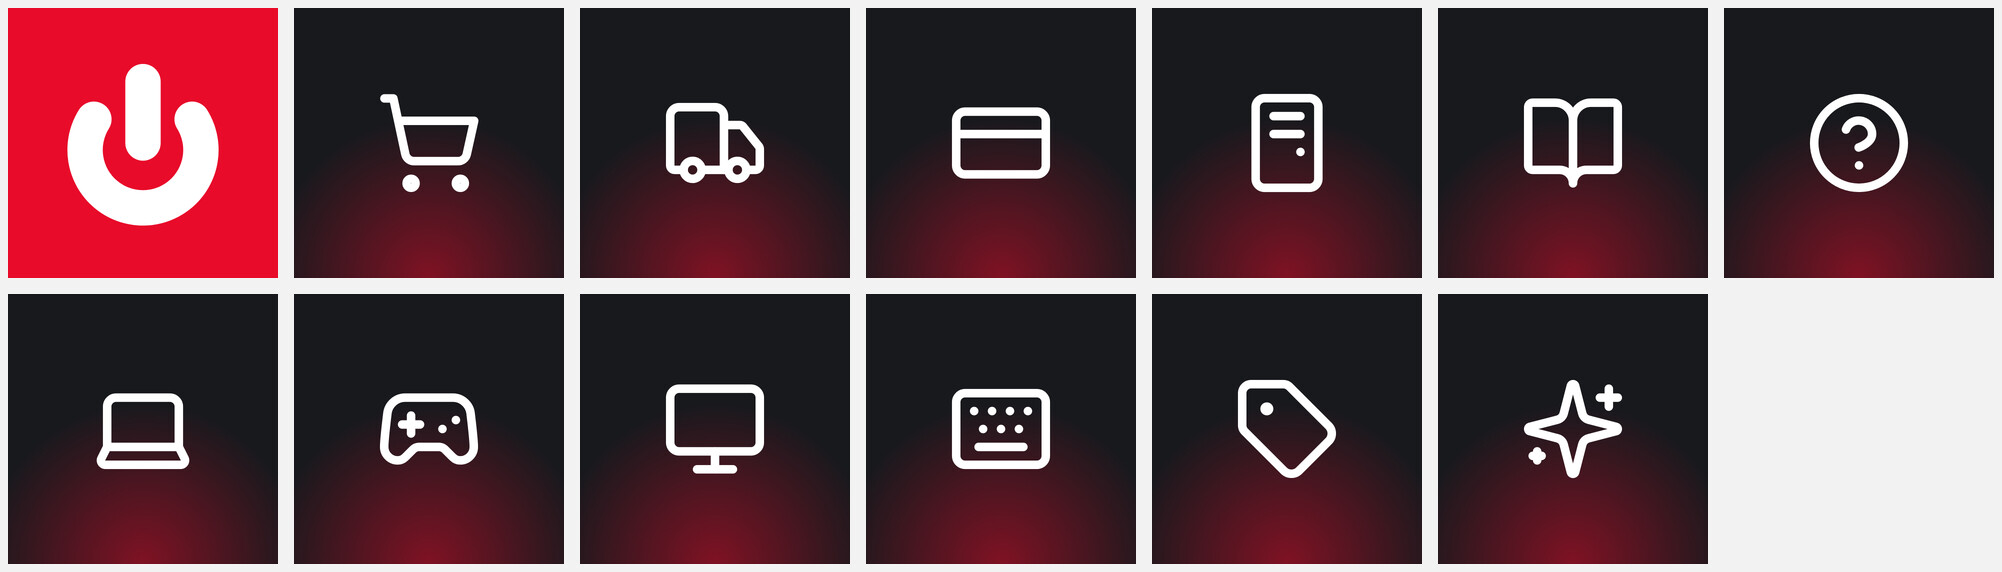
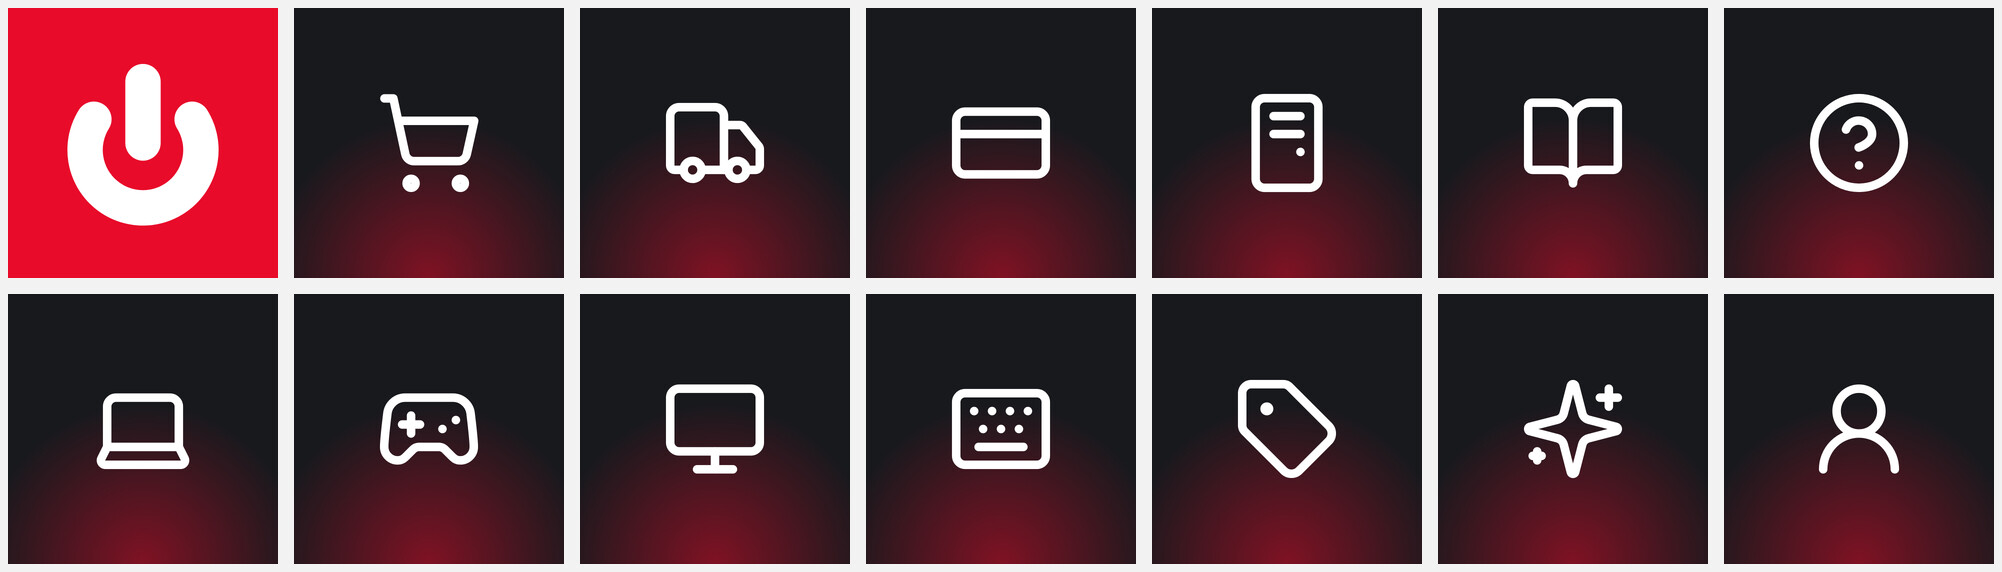
feat: piezas de Instagram sobre la cuenta y los Puntos Teqo
Carrusel de siete láminas con para qué sirve crear una cuenta, publicación de Puntos Teqo,
cuatro historias y la portada de la destacada Tu cuenta. Los beneficios son los que lista la
página Mi cuenta de la tienda; las piezas de puntos no llevan valores porque se cambian desde
el panel.

Claude-Session: https://claude.ai/code/session_01HieMWcEoMMMFAonpZPc1qi

Changed region(s): [[0.8362, 0.5052, 1.0, 1.0]]

diff --git a/marca/instagram/fuente/carruseles.html b/marca/instagram/fuente/carruseles.html
@@ -208,6 +208,81 @@
 </article>
 
 
+<!-- 17 · Para qué sirve crear una cuenta. Los beneficios son los que lista la página Mi cuenta de la tienda. -->
+<article class="pieza post rojo" id="17-tu-cuenta-1" data-carpeta="feed" style="--luz-x:80%;--luz-y:80%">
+  <header class="cabecera"><p class="rotulo">Tu cuenta</p><img class="firma" src="marca/teqo-encendido-blanco.svg" alt="teqo"></header>
+  <div class="contenido" style="--arriba:230px">
+    <h1 class="titular" style="--cuerpo:176px">¿Para qué<br>crear una<br>cuenta?</h1>
+    <p class="bajada" style="font-size:46px">Podés comprar sin cuenta. Con una, sumás todo esto.</p>
+  </div>
+  <i data-icono="cuenta" style="--tam:560px;--grosor:1.1;color:#fff;opacity:.16;position:absolute;right:20px;bottom:120px"></i>
+  <footer class="pie"><span class="contador">1 / 7</span><span class="desliza">Deslizá <i data-icono="flecha"></i></span></footer>
+</article>
+
+<article class="pieza post claro" id="17-tu-cuenta-2" data-carpeta="feed">
+  <header class="cabecera"><p class="rotulo">Tu cuenta</p><img class="firma" src="../../../public/marca/teqo-encendido-fondo-claro.svg" alt="teqo"></header>
+  <div class="contenido" style="--arriba:214px">
+    <p class="numero">01</p>
+    <h2 class="titular" style="--cuerpo:150px;margin-top:34px">Todas tus<br>compras.</h2>
+    <p class="bajada" style="font-size:46px;max-width:900px">Las ves en un solo lugar, también las que hiciste sin cuenta con ese email.</p>
+  </div>
+  <i data-icono="compras" style="--tam:250px;--grosor:1.25;color:var(--rojo);position:absolute;right:76px;bottom:176px"></i>
+  <footer class="pie"><span class="contador">2 / 7</span><span class="desliza">Deslizá <i data-icono="flecha"></i></span></footer>
+</article>
+
+<article class="pieza post claro" id="17-tu-cuenta-3" data-carpeta="feed">
+  <header class="cabecera"><p class="rotulo">Tu cuenta</p><img class="firma" src="../../../public/marca/teqo-encendido-fondo-claro.svg" alt="teqo"></header>
+  <div class="contenido" style="--arriba:214px">
+    <p class="numero">02</p>
+    <h2 class="titular" style="--cuerpo:150px;margin-top:34px">Facturas<br>y envíos.</h2>
+    <p class="bajada" style="font-size:46px;max-width:900px">Bajás tus facturas y seguís cada envío desde Mi cuenta.</p>
+  </div>
+  <i data-icono="factura" style="--tam:250px;--grosor:1.25;color:var(--rojo);position:absolute;right:76px;bottom:176px"></i>
+  <footer class="pie"><span class="contador">3 / 7</span><span class="desliza">Deslizá <i data-icono="flecha"></i></span></footer>
+</article>
+
+<article class="pieza post claro" id="17-tu-cuenta-4" data-carpeta="feed">
+  <header class="cabecera"><p class="rotulo">Tu cuenta</p><img class="firma" src="../../../public/marca/teqo-encendido-fondo-claro.svg" alt="teqo"></header>
+  <div class="contenido" style="--arriba:214px">
+    <p class="numero">03</p>
+    <h2 class="titular" style="--cuerpo:150px;margin-top:34px">Comprás<br>más rápido.</h2>
+    <p class="bajada" style="font-size:46px;max-width:900px">Guardás tus datos y direcciones para la próxima compra.</p>
+  </div>
+  <i data-icono="direccion" style="--tam:250px;--grosor:1.25;color:var(--rojo);position:absolute;right:76px;bottom:176px"></i>
+  <footer class="pie"><span class="contador">4 / 7</span><span class="desliza">Deslizá <i data-icono="flecha"></i></span></footer>
+</article>
+
+<article class="pieza post claro" id="17-tu-cuenta-5" data-carpeta="feed">
+  <header class="cabecera"><p class="rotulo">Tu cuenta</p><img class="firma" src="../../../public/marca/teqo-encendido-fondo-claro.svg" alt="teqo"></header>
+  <div class="contenido" style="--arriba:214px">
+    <p class="numero">04</p>
+    <h2 class="titular" style="--cuerpo:150px;margin-top:34px">Tus cupones.</h2>
+    <p class="bajada" style="font-size:46px;max-width:900px">Los activás en Mi cuenta y los usás al finalizar la compra.</p>
+  </div>
+  <i data-icono="cupon" style="--tam:250px;--grosor:1.25;color:var(--rojo);position:absolute;right:76px;bottom:176px"></i>
+  <footer class="pie"><span class="contador">5 / 7</span><span class="desliza">Deslizá <i data-icono="flecha"></i></span></footer>
+</article>
+
+<article class="pieza post claro" id="17-tu-cuenta-6" data-carpeta="feed">
+  <header class="cabecera"><p class="rotulo">Tu cuenta</p><img class="firma" src="../../../public/marca/teqo-encendido-fondo-claro.svg" alt="teqo"></header>
+  <div class="contenido" style="--arriba:214px">
+    <p class="numero">05</p>
+    <h2 class="titular" style="--cuerpo:150px;margin-top:34px">Puntos Teqo.</h2>
+    <p class="bajada" style="font-size:46px;max-width:900px">Sumás puntos con cada compra y los canjeás por un cupón de descuento.</p>
+  </div>
+  <i data-icono="puntos" style="--tam:250px;--grosor:1.25;color:var(--rojo);position:absolute;right:76px;bottom:176px"></i>
+  <footer class="pie"><span class="contador">6 / 7</span><span class="desliza">Deslizá <i data-icono="flecha"></i></span></footer>
+</article>
+
+<article class="pieza post oscuro" id="17-tu-cuenta-7" data-carpeta="feed" style="--luz-x:74%;--luz-y:80%">
+  <header class="cabecera"><p class="rotulo">Tu cuenta</p><img class="firma" src="../../../public/marca/teqo-encendido-fondo-oscuro.svg" alt="teqo"></header>
+  <div class="contenido" style="--arriba:300px">
+    <h2 class="titular" style="--cuerpo:116px">Entrás con Google<br><em>o con tu email.</em></h2>
+    <p class="bajada" style="font-size:46px">La creás en Mi cuenta. Usamos tu email solo para tus compras y tu cuenta.</p>
+  </div>
+  <footer class="pie"><span class="contador">7 / 7</span><span class="desliza">teqo.com.ar</span></footer>
+</article>
+
 <script src="iconos.js"></script>
 </body>
 </html>

diff --git a/marca/instagram/fuente/historias.html b/marca/instagram/fuente/historias.html
@@ -247,6 +247,47 @@
 </article>
 
 
+<!-- Tu cuenta: para qué sirve crearla. Va a la destacada "Tu cuenta". -->
+<article class="pieza historia rojo" id="tu-cuenta-1-portada" data-carpeta="historias/tu-cuenta" style="--luz-x:80%;--luz-y:80%">
+  <header class="cabecera"><p class="rotulo">Tu cuenta</p><img class="firma" src="marca/teqo-encendido-blanco.svg" alt="teqo"></header>
+  <div class="contenido" style="--arriba:520px">
+    <h1 class="titular" style="--cuerpo:196px">¿Para qué<br>crear una<br>cuenta?</h1>
+    <p class="bajada">Podés comprar sin cuenta. Con una, sumás todo esto.</p>
+  </div>
+</article>
+
+<article class="pieza historia oscuro" id="tu-cuenta-2-todo-en-un-lugar" data-carpeta="historias/tu-cuenta" style="--luz-x:78%;--luz-y:74%;--luz:.4">
+  <header class="cabecera"><p class="rotulo">Tu cuenta</p><img class="firma" src="../../../public/marca/teqo-encendido-fondo-oscuro.svg" alt="teqo"></header>
+  <div class="contenido">
+    <h1 class="titular" style="--cuerpo:176px">Todo en<br><em>un lugar.</em></h1>
+    <ul class="lista">
+      <li style="padding:34px 0;font-size:56px"><i data-icono="compras"></i>Tus compras</li>
+      <li style="padding:34px 0;font-size:56px"><i data-icono="factura"></i>Facturas y envíos</li>
+      <li style="padding:34px 0;font-size:56px"><i data-icono="direccion"></i>Datos y direcciones</li>
+      <li style="padding:34px 0;font-size:56px"><i data-icono="cupon"></i>Tus cupones</li>
+      <li style="padding:34px 0;font-size:56px"><i data-icono="puntos"></i>Tus puntos</li>
+    </ul>
+  </div>
+</article>
+
+<article class="pieza historia claro cuadricula" id="tu-cuenta-3-puntos" data-carpeta="historias/tu-cuenta">
+  <header class="cabecera"><p class="rotulo">Puntos Teqo</p><img class="firma" src="../../../public/marca/teqo-encendido-fondo-claro.svg" alt="teqo"></header>
+  <div class="contenido" style="--arriba:470px">
+    <i data-icono="puntos" style="--tam:220px;--grosor:1.3;color:var(--rojo)"></i>
+    <h1 class="titular" style="--cuerpo:140px;margin-top:50px">Tus compras<br><em>suman puntos.</em></h1>
+    <p class="bajada">Los ves en Mi cuenta y los canjeás por un cupón de descuento.</p>
+  </div>
+</article>
+
+<article class="pieza historia oscuro" id="tu-cuenta-4-crear" data-carpeta="historias/tu-cuenta" style="--luz-x:78%;--luz-y:74%;--luz:.4">
+  <header class="cabecera"><p class="rotulo">Crear tu cuenta</p><img class="firma" src="../../../public/marca/teqo-encendido-fondo-oscuro.svg" alt="teqo"></header>
+  <div class="contenido" style="--arriba:520px">
+    <h1 class="titular" style="--cuerpo:118px">Entrás con Google<br><em>o con tu email.</em></h1>
+    <p class="bajada">Usamos tu email solo para tus compras y tu cuenta.</p>
+  </div>
+  <footer class="pie"><span class="web">teqo.com.ar</span></footer>
+</article>
+
 <script src="iconos.js"></script>
 </body>
 </html>

diff --git a/marca/instagram/fuente/iconos.js b/marca/instagram/fuente/iconos.js
@@ -34,6 +34,12 @@ const ICONOS = {
   resolucion: '<path d="M8 3H5a2 2 0 0 0-2 2v3"/><path d="M21 8V5a2 2 0 0 0-2-2h-3"/><path d="M3 16v3a2 2 0 0 0 2 2h3"/><path d="M16 21h3a2 2 0 0 0 2-2v-3"/>',
   frecuencia: '<path d="m12 14 4-4"/><path d="M3.34 19a10 10 0 1 1 17.32 0"/>',
   conexion: '<path d="M17 21v-2a1 1 0 0 1-1-1v-1a2 2 0 0 1 2-2h2a2 2 0 0 1 2 2v1a1 1 0 0 1-1 1"/><path d="M19 15V6.5a1 1 0 0 0-7 0v11a1 1 0 0 1-7 0V9"/><path d="M21 21v-2h-4"/><path d="M3 5h4V3"/><path d="M7 5a1 1 0 0 1 1 1v1a2 2 0 0 1-2 2H4a2 2 0 0 1-2-2V6a1 1 0 0 1 1-1V3"/>',
+  cuenta: '<circle cx="12" cy="8" r="5"/><path d="M20 21a8 8 0 0 0-16 0"/>',
+  compras: '<path d="M6 2 3 6v14a2 2 0 0 0 2 2h14a2 2 0 0 0 2-2V6l-3-4Z"/><path d="M3 6h18"/><path d="M16 10a4 4 0 0 1-8 0"/>',
+  factura: '<path d="M15 2H6a2 2 0 0 0-2 2v16a2 2 0 0 0 2 2h12a2 2 0 0 0 2-2V7Z"/><path d="M14 2v4a2 2 0 0 0 2 2h4"/><path d="M10 9H8"/><path d="M16 13H8"/><path d="M16 17H8"/>',
+  direccion: '<path d="M20 10c0 4.993-5.539 10.193-7.399 11.799a1 1 0 0 1-1.202 0C9.539 20.193 4 14.993 4 10a8 8 0 0 1 16 0"/><circle cx="12" cy="10" r="3"/>',
+  cupon: '<path d="M2 9a3 3 0 0 1 0 6v2a2 2 0 0 0 2 2h16a2 2 0 0 0 2-2v-2a3 3 0 0 1 0-6V7a2 2 0 0 0-2-2H4a2 2 0 0 0-2 2Z"/><path d="M13 5v2"/><path d="M13 17v2"/><path d="M13 11v2"/>',
+  puntos: '<path d="M11.525 2.295a.53.53 0 0 1 .95 0l2.31 4.679a2.123 2.123 0 0 0 1.595 1.16l5.166.756a.53.53 0 0 1 .294.904l-3.736 3.638a2.123 2.123 0 0 0-.611 1.878l.882 5.14a.53.53 0 0 1-.771.56l-4.618-2.428a2.122 2.122 0 0 0-1.973 0L6.396 21.01a.53.53 0 0 1-.77-.56l.881-5.139a2.122 2.122 0 0 0-.611-1.879L2.16 9.795a.53.53 0 0 1 .294-.906l5.165-.755a2.122 2.122 0 0 0 1.597-1.16z"/>',
   comparar: '<path d="m16 16 3-8 3 8c-.87.65-1.92 1-3 1s-2.13-.35-3-1Z"/><path d="m2 16 3-8 3 8c-.87.65-1.92 1-3 1s-2.13-.35-3-1Z"/><path d="M7 21h10"/><path d="M12 3v18"/><path d="M3 7h2c2 0 5-1 7-2 2 1 5 2 7 2h2"/>',
 };
 

diff --git a/marca/instagram/fuente/feed.html b/marca/instagram/fuente/feed.html
@@ -173,6 +173,21 @@
   </div>
 </article>
 
+<!-- 18 · Puntos Teqo. Sin valores: cuánto suma y cuánto vale cada punto se cambia desde el panel. -->
+<article class="pieza post claro cuadricula" id="18-puntos-teqo" data-carpeta="feed">
+  <header class="cabecera"><p class="rotulo">Puntos Teqo</p><img class="firma" src="../../../public/marca/teqo-encendido-fondo-claro.svg" alt="teqo"></header>
+  <div class="contenido" style="--arriba:196px">
+    <h1 class="titular" style="--cuerpo:136px">Tus compras<br><em>suman puntos.</em></h1>
+    <p class="bajada">Los ves en Mi cuenta y los canjeás por un cupón de descuento.</p>
+    <div class="pila" style="margin-top:56px">
+      <div class="tarjeta"><i data-icono="puntos"></i><div><b>Sumás</b><span>Con cada compra de productos.</span></div></div>
+      <div class="tarjeta"><i data-icono="reloj"></i><div><b>Se liberan</b><span>Al terminar el plazo de arrepentimiento.</span></div></div>
+      <div class="tarjeta"><i data-icono="cupon"></i><div><b>Canjeás</b><span>Por un cupón para tu próxima compra.</span></div></div>
+    </div>
+  </div>
+  <footer class="pie"><span class="web">teqo.com.ar</span></footer>
+</article>
+
 <script src="iconos.js"></script>
 </body>
 </html>

diff --git a/marca/instagram/fuente/perfil.html b/marca/instagram/fuente/perfil.html
@@ -27,6 +27,7 @@
 <article class="pieza cuadrada destacada" id="11-ofertas" data-carpeta="destacadas"><i data-icono="oferta"></i></article>
 <article class="pieza cuadrada destacada" id="12-novedades" data-carpeta="destacadas"><i data-icono="novedades"></i></article>
 
+<article class="pieza cuadrada destacada" id="13-tu-cuenta" data-carpeta="destacadas"><i data-icono="cuenta"></i></article>
 <script src="iconos.js"></script>
 </body>
 </html>

diff --git a/marca/instagram/README.md b/marca/instagram/README.md
@@ -12,10 +12,10 @@ país, configuraciones de fábrica, transferencia o Mercado Pago, 10 días para 
 | Carpeta | Piezas | Medida |
 | --- | ---: | --- |
 | `listas/perfil/` | Foto de perfil | 1080 × 1080 |
-| `listas/feed/` | 13 publicaciones y 3 carruseles (18 láminas), numerados en orden de publicación | 1080 × 1350 |
+| `listas/feed/` | 14 publicaciones y 4 carruseles (25 láminas), numerados en orden de publicación | 1080 × 1350 |
 | `listas/temporada/` | Fiestas y vuelta a clases | 1080 × 1350 |
-| `listas/historias/` | 23 historias, en una carpeta por destacada | 1080 × 1920 |
-| `listas/destacadas/` | 12 portadas de destacadas | 1080 × 1080 |
+| `listas/historias/` | 27 historias, en una carpeta por destacada | 1080 × 1920 |
+| `listas/destacadas/` | 13 portadas de destacadas | 1080 × 1080 |
 | `listas/reels/` | 4 portadas de reels (sin video) | 1080 × 1920 |
 | `listas/plantillas/` | Pieza de producto, en publicación e historia. Tiene marcadores: no se publica así | 1350 y 1920 de alto |
 | `vista-previa/` | Cómo queda la grilla del perfil y hojas con todas las piezas | |
@@ -27,13 +27,14 @@ Los textos para acompañar cada pieza, la bio y los textos alternativos están e
 
 1. Foto de perfil: `listas/perfil/foto-de-perfil.png`. Es el mismo símbolo que el ícono de la tienda.
 2. Bio, nombre y enlace: los de `TEXTOS.md`.
-3. Destacadas del primer día: Comprar, Envíos, Pagos, Armá tu PC y Ayuda. Cada una tiene sus historias en
+3. Destacadas del primer día: Comprar, Envíos, Pagos, Armá tu PC, Ayuda y Tu cuenta. Cada una tiene sus historias en
    `listas/historias/<nombre>/`: se suben en orden, se guardan en la destacada y se le pone la portada de
    `listas/destacadas/`. Las demás portadas (Guías, Notebooks, Gaming, Monitores, Periféricos, Ofertas y Novedades)
    se usan cuando haya historias para guardar ahí; una destacada vacía no se puede crear.
 4. Publicaciones: del 01 al 12, en ese orden. La 07, la 10 y la 12 son carruseles: se suben todas las láminas
    con el mismo número, en orden. Así la grilla alterna claro, rojo y oscuro (`vista-previa/grilla-del-perfil.jpg`).
-   La 13, la 14, la 15 y la 16 siguen después, intercaladas con piezas de producto.
+   De la 13 a la 18 siguen después, intercaladas con piezas de producto. La 17 (carrusel) y la 18 son las de la
+   cuenta y los puntos.
 5. Historias de lanzamiento (`listas/historias/lanzamiento/`): el día que se publica la 01. En la tercera va el
    sticker de enlace a la tienda.
 
@@ -45,6 +46,9 @@ Los textos para acompañar cada pieza, la bio y los textos alternativos están e
 - **Cuotas.** Las piezas dicen "en cuotas", sin número, para que no queden viejas si cambia la promoción.
 - **Armado de PC.** Las piezas hablan del armador y de la compatibilidad; no prometen el servicio de armado y
   prueba, que en la tienda está inactivo hasta que tenga precio.
+- **Cuenta y puntos.** Los beneficios de la cuenta son los que lista la página Mi cuenta de la tienda. Las piezas
+  de Puntos Teqo no dicen cuánto suma ni cuánto vale cada punto, porque se cambia desde el panel: se publican
+  solo con el programa prendido.
 - **Garantía.** No hay pieza de garantía: falta definir el plazo. Cuando esté, se suma una historia en Ayuda.
 - **Pieza de producto.** Se completa en `fuente/producto.js` con lo que muestra la ficha ese día y se genera de
   nuevo. Los precios cambian: una pieza con precio se publica el día que se genera.

diff --git a/marca/instagram/TEXTOS.md b/marca/instagram/TEXTOS.md
@@ -34,6 +34,7 @@ El nombre se escribe en Instagram; la portada lleva solo el ícono.
 | 3 | Pagos | `03-pagos` | `historias/pagos/` (2) |
 | 4 | Armá tu PC | `04-arma-tu-pc` | `historias/arma-tu-pc/` (3) |
 | 5 | Ayuda | `06-ayuda` | `historias/ayuda/` (3) |
+| 6 | Tu cuenta | `13-tu-cuenta` | `historias/tu-cuenta/` (4) |
 | después | Guías | `05-guias` | Los carruseles 10 y 12 compartidos a historias |
 | después | Notebooks, Gaming, Monitores, Periféricos | `07` a `10` | `historias/categorias/` y las piezas de producto de cada una |
 | después | Ofertas, Novedades | `11` y `12` | Cuando haya ofertas o ingresos reales |
@@ -168,6 +169,22 @@ Procesadores, placas de video, memorias y gabinetes. Si vas a armar una PC compl
 
 **Texto alternativo:** Un gabinete, una placa de video, memorias, un disco y un procesador sobre fondo oscuro. Dice "Pieza por pieza. Procesadores, placas de video, memorias y gabinetes".
 
+### 17 · Para qué crear una cuenta (carrusel de 7)
+
+Podés comprar sin cuenta. Con una, tenés más.
+Ves todas tus compras en un lugar, también las que hiciste sin cuenta con ese email. Bajás las facturas y seguís los envíos. Guardás tus datos y direcciones para comprar más rápido. Activás y usás tus cupones. Y ves tus Puntos Teqo.
+Entrás con Google o con tu email y una contraseña.
+
+**Texto alternativo:** Carrusel de siete láminas con lo que permite la cuenta de Teqo: ver todas las compras, bajar facturas y seguir envíos, guardar datos y direcciones, usar cupones y sumar puntos.
+
+### 18 · Puntos Teqo
+
+Tus compras suman puntos.
+Aparecen cuando te entregamos la compra y se liberan al terminar el plazo de arrepentimiento. Después los canjeás, desde Mi cuenta, por un cupón de descuento para tu próxima compra.
+El envío no suma. Las condiciones completas están en los términos de la web.
+
+**Texto alternativo:** Fondo claro. Dice "Tus compras suman puntos. Los ves en Mi cuenta y los canjeás por un cupón de descuento". Debajo, tres tarjetas: Sumás, Se liberan y Canjeás.
+
 ## Temporada
 
 ### Fiestas
@@ -189,7 +206,7 @@ Si no sabés cuál, en el perfil hay una guía con cinco preguntas para elegir.
 ## Historias
 
 - **Lanzamiento** (3). La tercera lleva el sticker de enlace a https://teqo.com.ar, debajo de la dirección.
-- **Comprar** (5), **Envíos** (3), **Pagos** (2) y **Armá tu PC** (3). Se suben en orden y se guardan en su destacada.
+- **Comprar** (5), **Envíos** (3), **Pagos** (2), **Armá tu PC** (3) y **Tu cuenta** (4). Se suben en orden y se guardan en su destacada.
   En la última de cada grupo conviene sumar el sticker de enlace a la página que corresponde.
 - **Ayuda** (3). `ayuda-3-pregunta` es para el sticker de preguntas: va en el espacio libre de abajo.
   Se responde con lo que hay en el catálogo, sin prometer stock ni plazos que no estén en la web.
